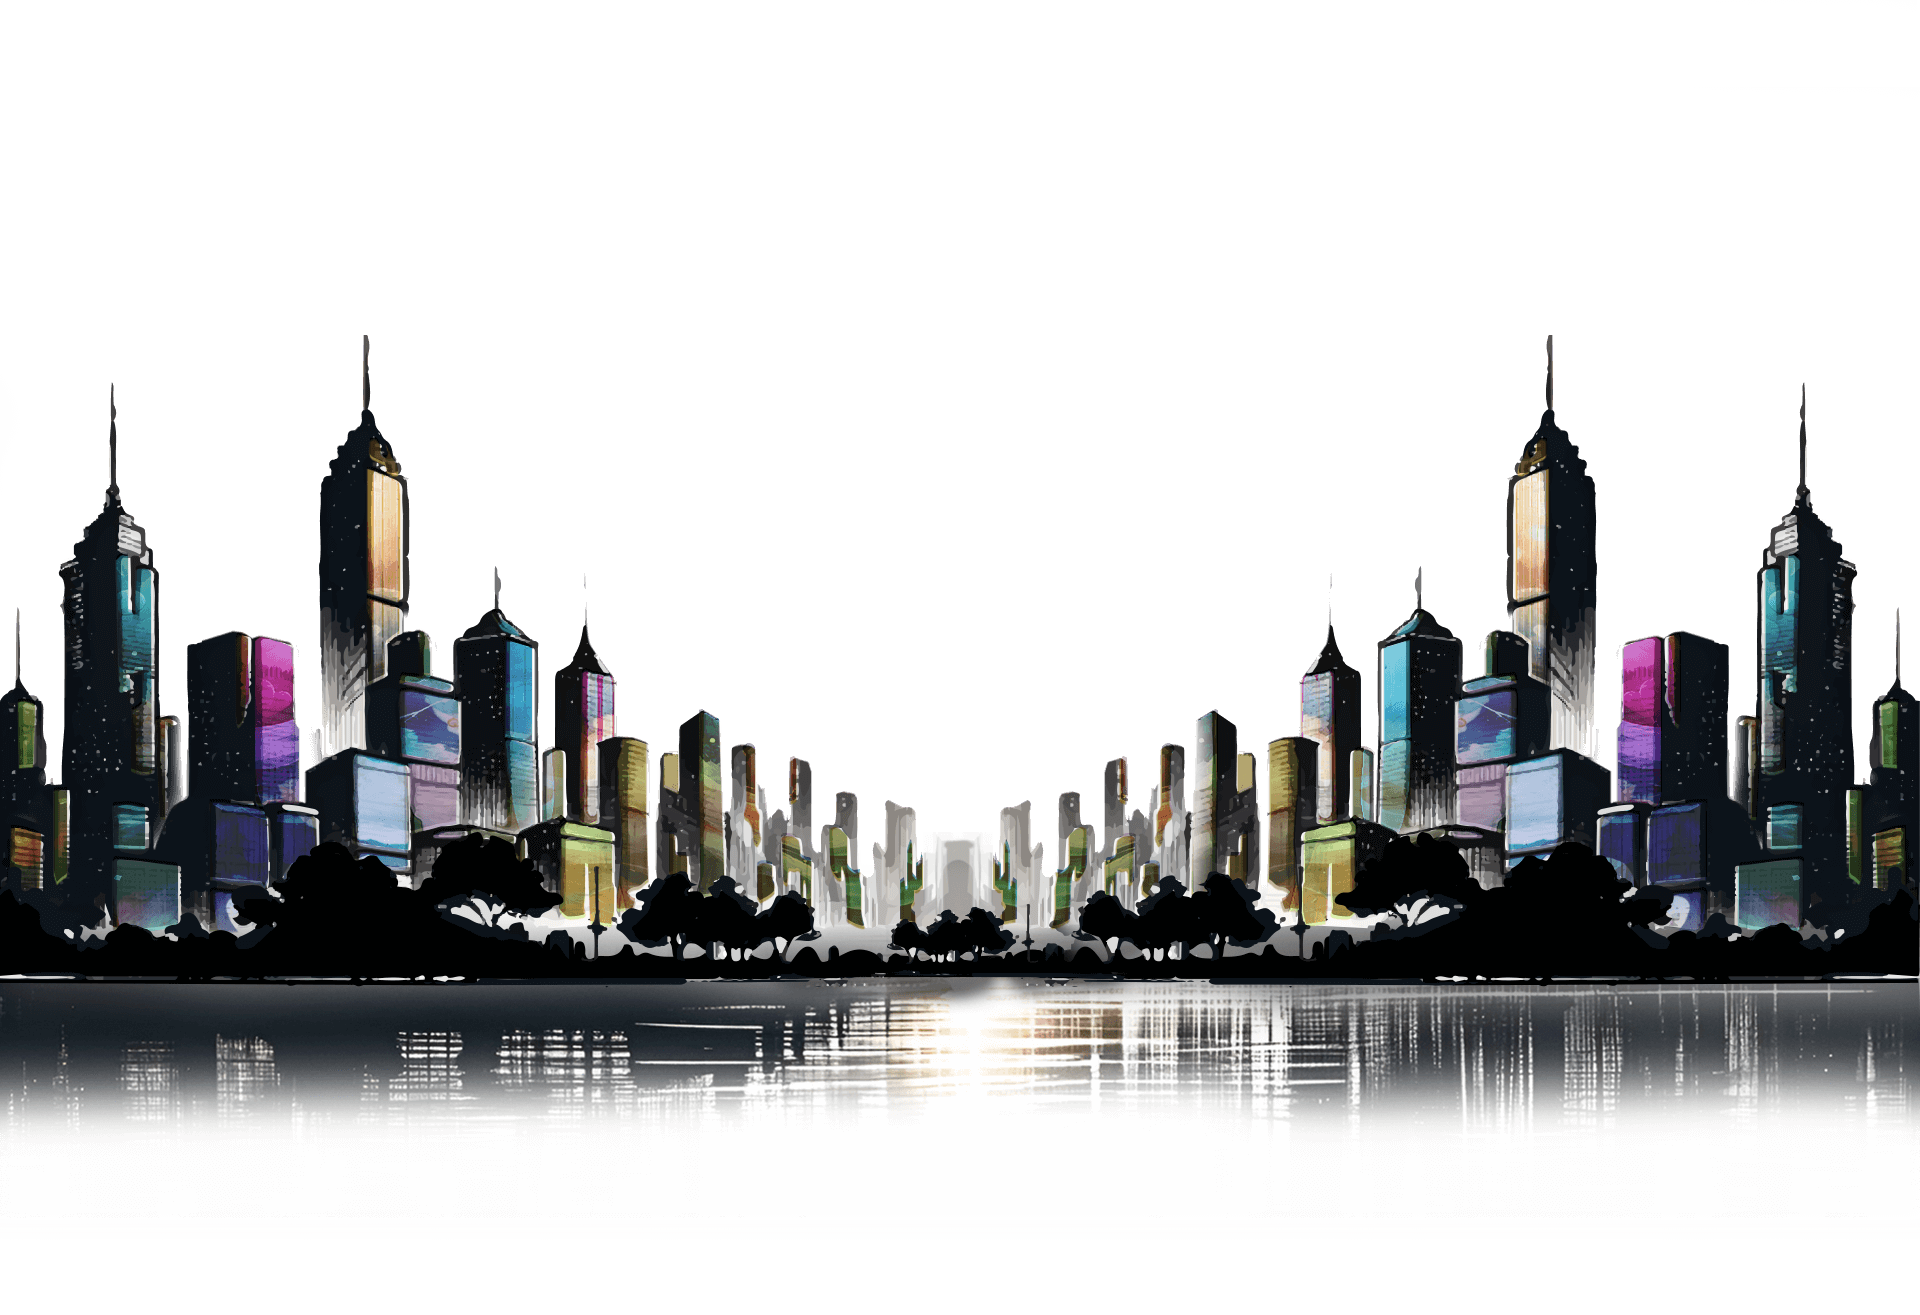
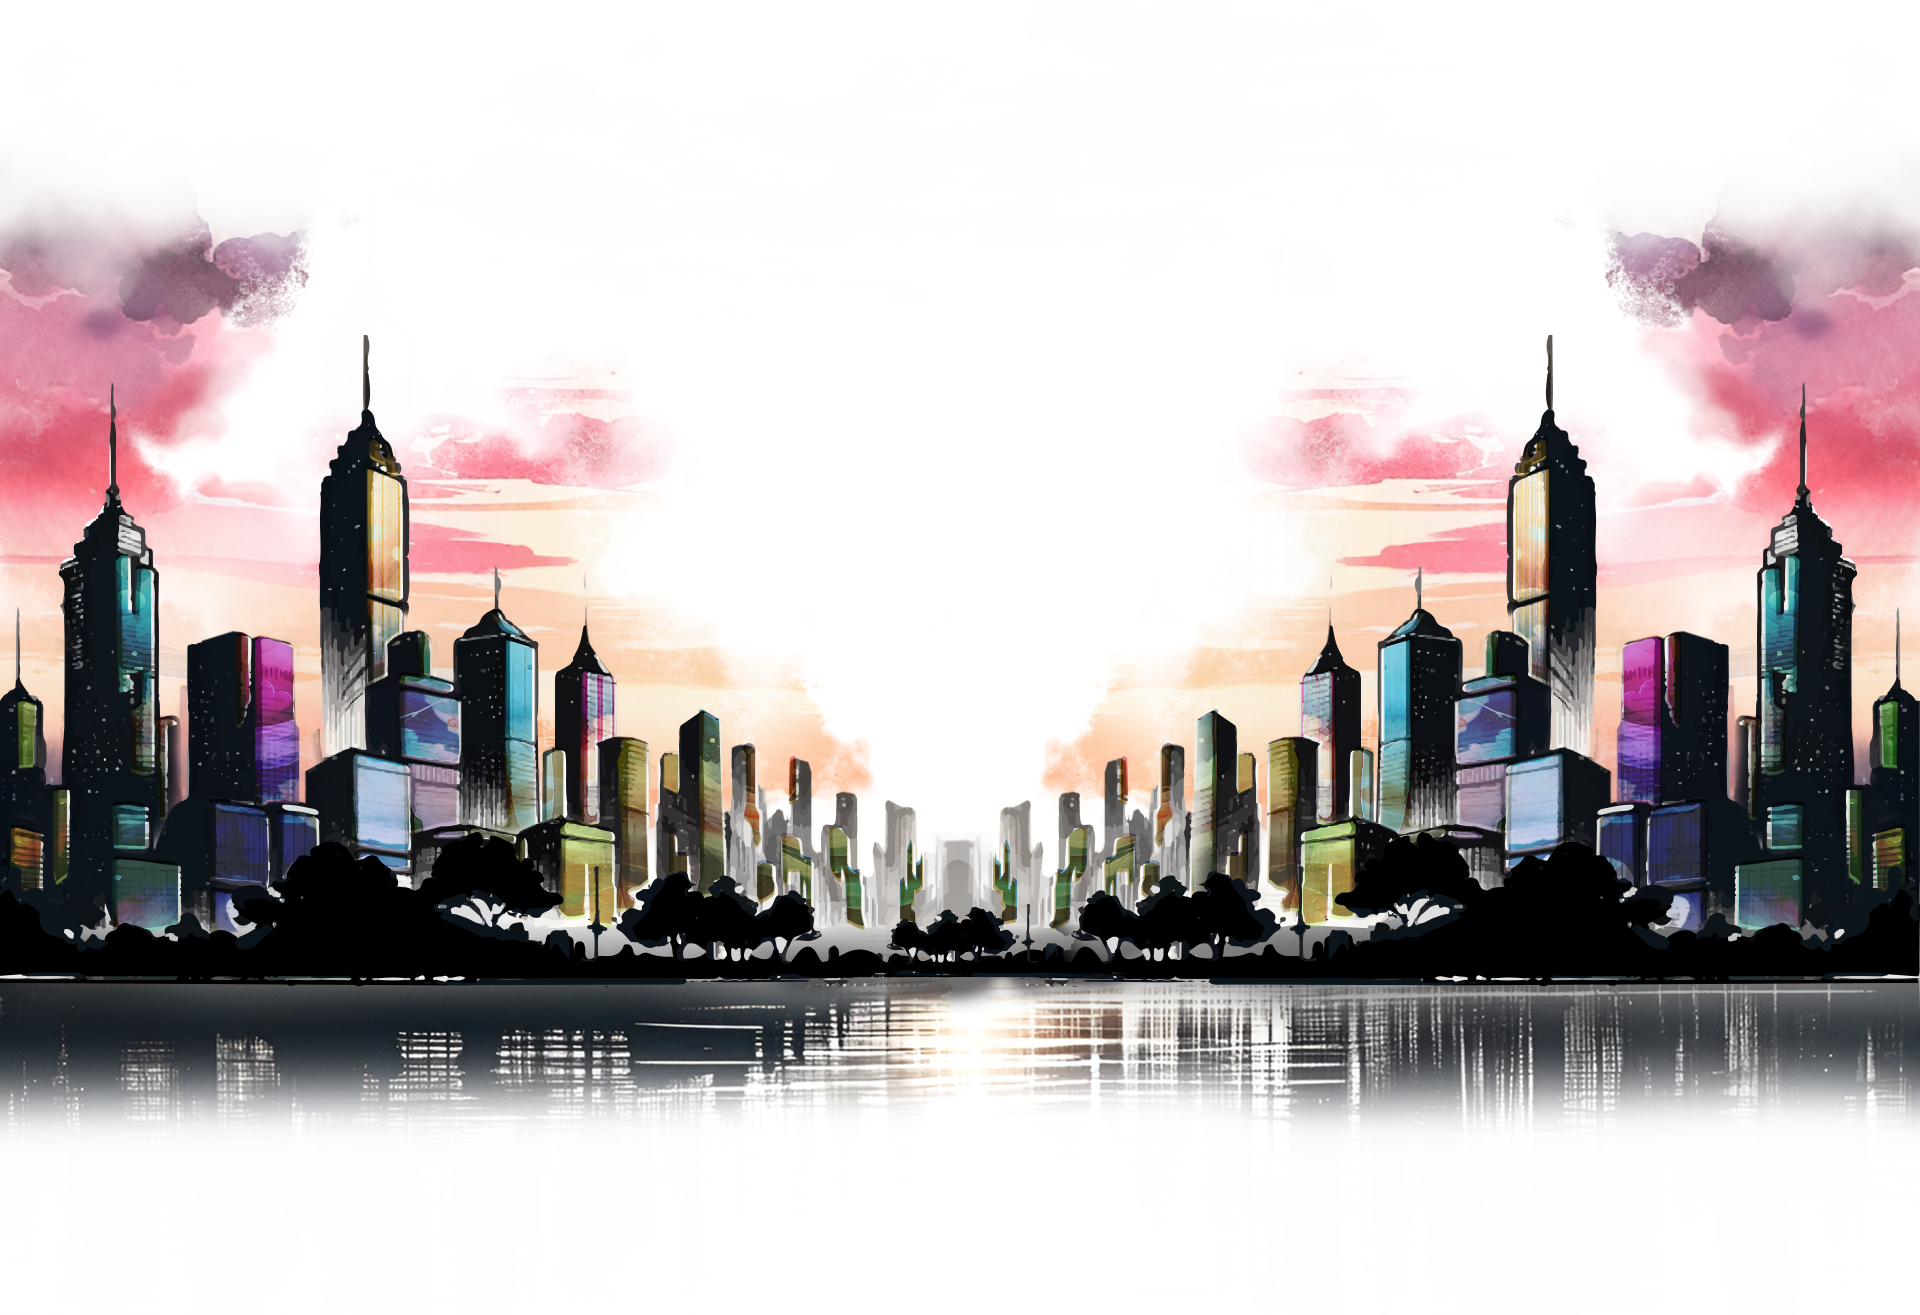
Update

Changed region(s): [[0.0, 0.1559, 0.4688, 0.6236], [0.5312, 0.1559, 1.0, 0.6236]]

diff --git a/css/custom.css b/css/custom.css
@@ -1,5 +1,5 @@
 .front2 {
-    background-image: url("https://i.ibb.co/QjSMKqz/new-front-1.png");
+    background-image: url("https://i.ibb.co/f1yLnCV/new-front-1g.jpg");
     position: absolute;
     width: 100vw;
     height: 100%;
@@ -17,6 +17,7 @@
     background-repeat: no-repeat;
     object-fit: cover;
     opacity: 1;
+    overflow: hidden;
   }
   
   .front {
@@ -26,7 +27,7 @@
     background-position: center;
     background-repeat: no-repeat;
     object-fit: cover;
-
+    overflow: hidden;
 }
   
   @keyframes mask-play {
